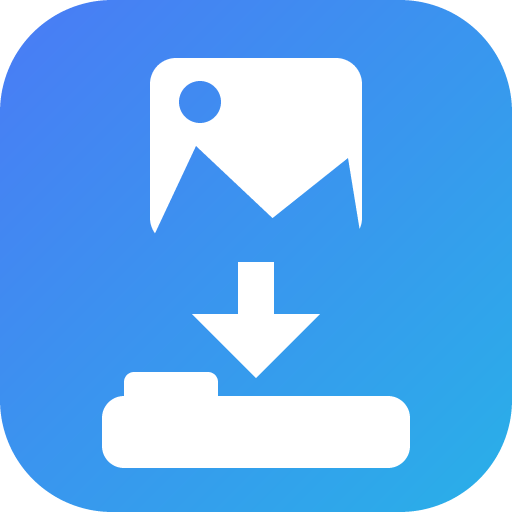
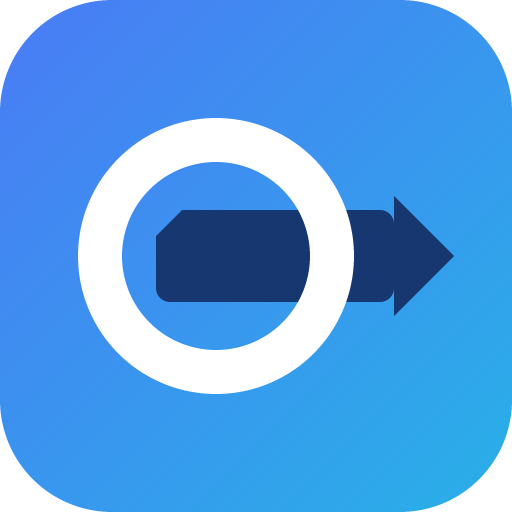
rename: result2asset → file-tunnel（文件隧道），图标改隧道穿透主题 (0.1.6)
plugin.json/package.json/README/deploy 目标目录/两处 clientInfo 统一改名；
stdio clientInfo 自 0.1.1 起漏更版本，改为复用 rpc.ts 导出的 CLIENT_INFO；
图标重绘：白环隧道 + 深蓝文件卡穿环而出（环带遮挡制造线程感），
make-icon.mjs 场景重写，零依赖可复现。

diff --git a/src/stdio.ts b/src/stdio.ts
@@ -1,7 +1,7 @@
 // MCP stdio 客户端：仅思源桌面版（渲染进程有 Node 集成时 window.require 可用）。
 // NDJSON 帧协议：initialize → notifications/initialized → tools/call，用后即杀进程。
 
-import { McpCallToolResult } from "./rpc";
+import { CLIENT_INFO, McpCallToolResult } from "./rpc";
 import { IMCPServerConfig, nodeRequire, ToolError } from "./util";
 
 interface ReadableLike {
@@ -173,7 +173,7 @@ export async function callStdioTool(
         const init = await call("initialize", {
             protocolVersion: "2025-06-18",
             capabilities: {},
-            clientInfo: {name: "result2asset", version: "0.1.1"},
+            clientInfo: CLIENT_INFO,
         });
         unwrapM(init, "initialize");
         child.stdin.write(JSON.stringify({jsonrpc: "2.0", method: "notifications/initialized"}) + "\n");

diff --git a/src/index.ts b/src/index.ts
@@ -1,4 +1,4 @@
-// result2asset：唯一能力 exec——以二进制安全的方式代调 MCP 工具与内核工具。
+// file-tunnel：唯一能力 exec——以二进制安全的方式代调 MCP 工具与内核工具。
 // 定位是 overlay 包装层：不改变模型可见的原生工具，只提供一条包装通道；
 // 文本结果直回、二进制落盘 assets/mcp、{{file2b64.路径}} 展开附件字节、OAuth 短路报错指路。
 

diff --git a/src/rpc.ts b/src/rpc.ts
@@ -24,7 +24,7 @@ export interface McpCallToolResult {
 }
 
 const PROTOCOL_VERSION = "2025-06-18";
-const CLIENT_INFO = {name: "result2asset", version: "0.1.5"};
+export const CLIENT_INFO = {name: "file-tunnel", version: "0.1.6"};
 
 let nextRpcId = 0;
 

diff --git a/README.md b/README.md
@@ -1,6 +1,6 @@
-# Result to Asset（结果落附件）
+# File Tunnel（文件隧道）
 
-给思源 Agent 加一个 `exec` 工具：以二进制安全的方式调用 MCP 工具和内核工具。
+给思源 Agent 加一个 `exec` 工具：以二进制安全的方式调用 MCP 工具和内核工具——文件经隧道进出，base64 不进对话。
 
 ## 它解决什么问题
 
